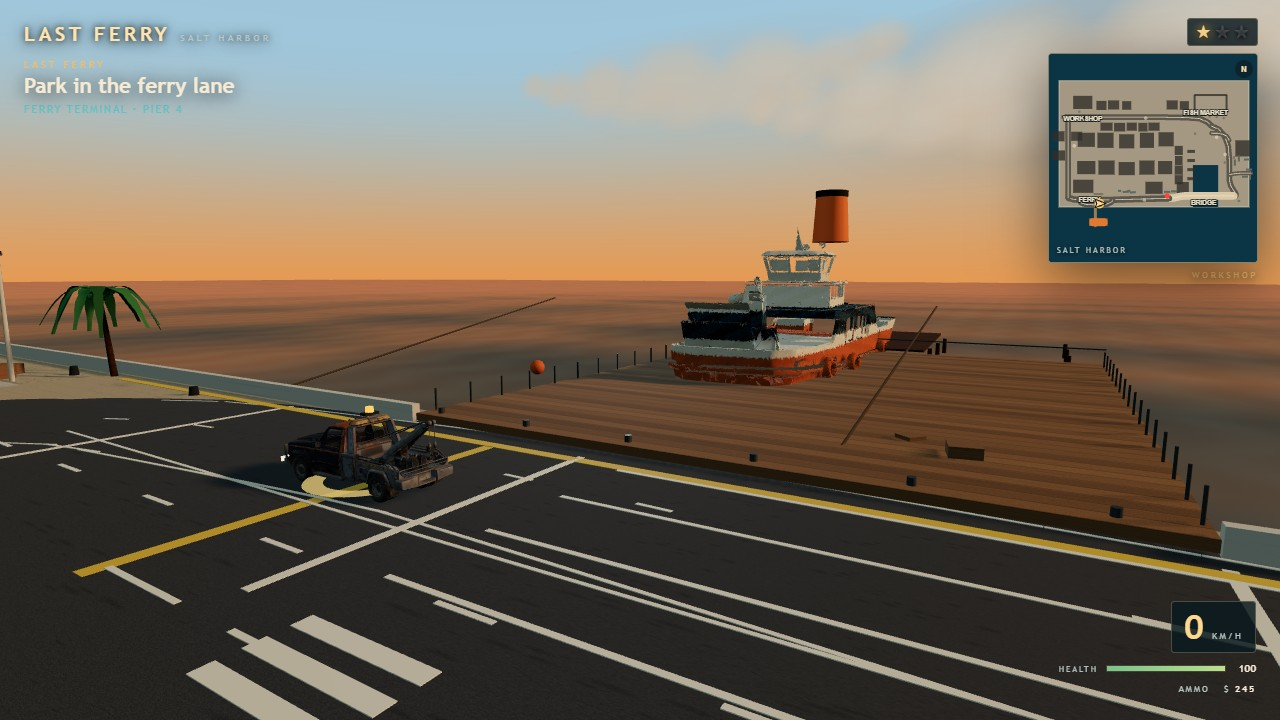
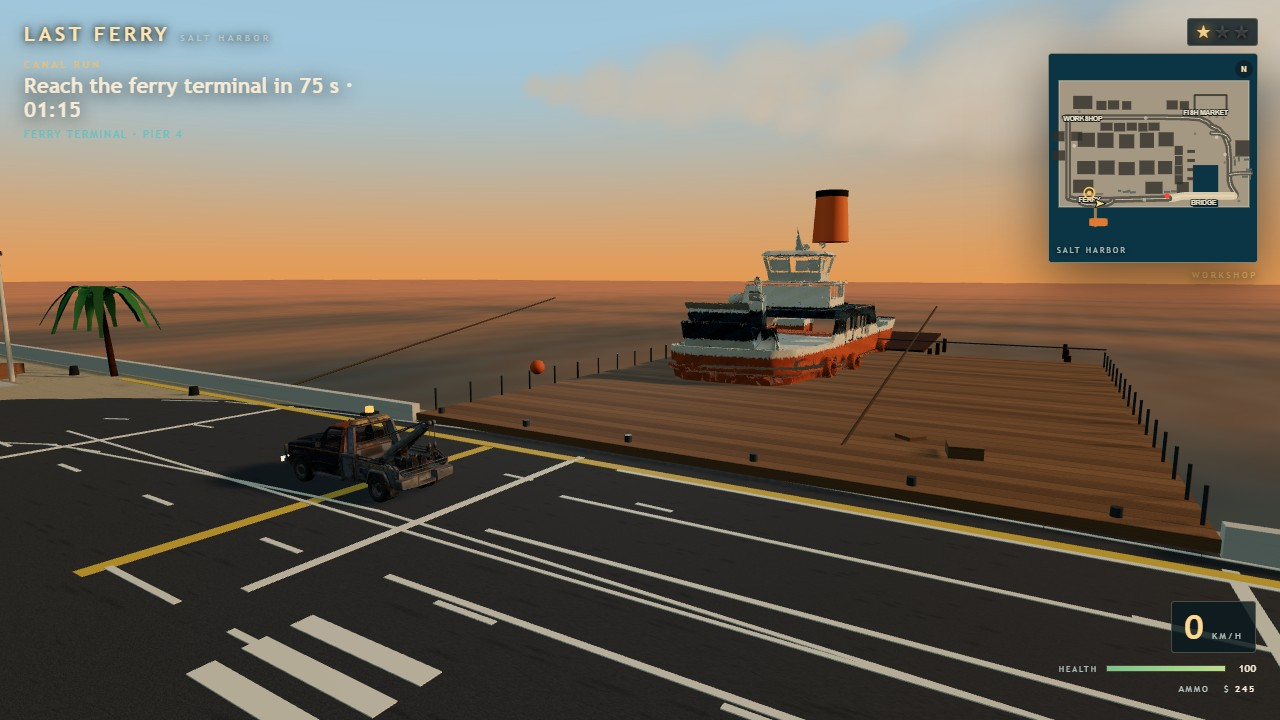
feat: add the Ferry Escape finale and refreshed stills
- ferry_escape forces wanted 2, counts down 90 s and re-applies the stars if they drop
- Pressing E at the pier boards the last ferry, clears the warrant and pays $600
- The SALT HARBOR end card hands over to free_roam; timeout or death retries at the pier
- Re-rendered all four 1280x720 stills; the terminal still shows the Canal Run countdown

diff --git a/game/src/missions.js b/game/src/missions.js
@@ -1,1 +1,1 @@
-import*as t from"../vendor/three.module.min.js";import{NODES as s,POI as i,distance2D as h,rngFor as e}from"./core.js";import{walkHeightAt as r}from"./world.js";import{Actor as o}from"./npc.js";const a=Math,{Vector3:n,RingGeometry:l,MeshBasicMaterial:c,Mesh:d,Group:u,DoubleSide:k}=t,p="find_truck",y="cross_bridge",m="ferry_lane",f="return_workshop",b="dock_trouble",_="debt_run",w="canal_run",C="free_roam",g={find_truck:["Take the impounded tow truck","Impound lot · Fish Market",s.slot_tow_truck_A.x,s.slot_tow_truck_A.z],cross_bridge:["Cross the bridge checkpoint","Canal Bend → Bridge",s.checkpoint_bridge_01.x,s.checkpoint_bridge_01.z],ferry_lane:["Park in the ferry lane","Ferry Terminal · Pier 4",s.lane_ferry_dest.x,s.lane_ferry_dest.z],return_workshop:["Return Tirta to the workshop","West Junction → Shop Street",i.workshop.x,i.workshop.z],debt_run:["Collect the market debt","Market · Alley · Pier",i.market.x,i.market.z],canal_run:["Reach the ferry terminal in 75 s","Ferry Terminal · Pier 4",i.terminal.x,i.terminal.z],ferry_escape:["Board the last ferry","Pier · last departure",i.pier.x,i.pier.z],free_roam:["Free roam Salt Harbor","East quay · dock trouble reported",168,30],dock_trouble:["Clear the east quay","East Quay · gangsters",168,30]},D=[i.market,i.alley,i.pier],T=t=>{const s=a.max(0,a.ceil(t));return`${String(a.floor(s/60)).padStart(2,"0")}:${String(s%60).padStart(2,"0")}`};export class MissionDirector{constructor(t){this.i=t.scene,this.p=t.player,this.f=t.fleet,this.l=t.police,this.n=t.npc,this.h=t.hud,this.u=t.audio,this.c=t.combat,this.m=120,this.st=p,this.k=[],this.t=0,this.sT=0,this.completed=!1,this._=!1,this.d=0,this.C=D[0],this.D=function(t){const s=new u;s.name="mission_marker";const i=new d(new l(1.3,1.9,32),new c({color:16761436,transparent:!0,opacity:.8,side:k,depthWrite:!1}));return i.rotation.x=-a.PI/2,i.position.y=.22,s.add(i),s.visible=!1,t.add(s),s}(this.i),this.o=null,this.setObjective(...g.find_truck),this.h.setMission("Last Ferry","The impound lot is behind the Fish Market."),this.T={nodes:s,stage:this.st,objective:this.o,events:this.k,startTruckRun:()=>this.replay(),onTruckTakeover:t=>this.k.push({type:"listener",handler:t})},window.LastFerryMission=this.T,window.LastFerryNodes=s,this.c.A=()=>{this.st===_&&this.checkpointRetry()}}setObjective(t,s,i,h){this.o={text:t,area:s,x:i,z:h},this.D.position.set(i,r(i,h,4),h),this.D.visible=!0,this.h.setObjective(t,s)}onEnterVehicle(t){"tow"===t.key&&this.st===p&&this.R()}R(){if(this.st!==p)return;const t={type:"truck_takeover",vehicle:"tow",label:"Tirta",node:"slot_tow_truck_A",time:this.t,area:"Parking Lot"};this.k.push(t);for(const s of this.k)"listener"===s.type&&s.handler?.(t);window.dispatchEvent(new CustomEvent("lastferry:truck-takeover",{detail:t})),this.st=y,this.sT=0,this.n.daraRadioCall(),this.l.setWanted(1,!0),this.u?.radioChatter(),this.h.setDialogue("DARA","Bagas! That truck is impounded. Stop the truck. I am calling it in.",5.2),this.h.showToast("Wanted level 1 · Patrol Unit 7 dispatched"),this.h.setMission("Last Ferry","Dara has called the harbour patrol."),this.setObjective(...g.cross_bridge),this.h.setWanted(1),this.S("truck_takeover")}v(){this.st===y&&(this.st=m,this.sT=0,this.u?.radioChatter(),this.h.setDialogue("DISPATCH","Unit 7, he is over the bridge. Cut him off on Waterfront Road.",4.5),this.setObjective(...g.ferry_lane))}P(){this.st===m&&(this.st=f,this.sT=0,this.h.setDialogue("IDRIS","Tirta, you are in the lane. The last ferry is held at Pier 4. Park her and see me.",5.2),this.setObjective(...g.return_workshop))}$(){this.st===f&&(this.st=C,this.completed=!0,this.m+=850,this.l.setWanted(0,!1),this.h.setWanted(0),this.h.setMoney(this.m),this.c&&(this.c.available=!0),this.u?.success(),this.h.showMissionComplete({title:"LAST FERRY",detail:`Tirta is home. Dara keeps the report quiet. Cash: $${this.m}.`,money:this.m,reward:850}),this.h.setMission("Last Ferry","The run is done. Salt Harbor is yours."),this.setObjective(...g.free_roam),this.S("mission_complete"))}F(){this.st=_,this.d=0,this.C=D[0],this.h.setMission("Debt Collector","Debt"),this.h.setDialogue("DARA","Market, alley, pier.",4.5),this.u?.radioChatter(),this.setObjective("Collect the market debt 0/3","Market · Alley · Pier",i.market.x,i.market.z)}interact(){return this.st===_&&this.d<3&&h(this.p.x,this.p.z,this.C.x,this.C.z)<3&&(this.M(),!0)}M(){this.d++,this.m+=150,this.h.setMoney(this.m),this.u?.ui(),this.h.showToast("Debt · +$150"),this.h.setDialogue("TRADER","Paid.",3.2),this.d<3?(this.C=D[this.d],this.setObjective(`Collect the market debt ${this.d}/3`,"Market · Alley · Pier",this.C.x,this.C.z)):(this.setObjective("Clear the pier 3/3","Pier",i.pier.x,i.pier.z),this.c.B(i.pier.x,i.pier.z),this.h.setMission("Debt Collector","Armed crew."),this.h.setDialogue("DISPATCH","Clear them.",4))}I(){this.L(w,75,"Canal Run","75 s.")}q(){this.L("ferry_escape",90,"Ferry Escape","Board the last ferry!"),this.l.setWanted(2,!0),this.h.setWanted(2)}L(t,s,i,h){this.st=t,this.sT=s,this.setObjective(...g[t]),this.h.setMission(i,""),this.h.setDialogue("DARA",h,4.8),this.u?.radioChatter()}finish(t,s,i,h){this.m+=t,this.h.setMoney(this.m),this.h.showMissionComplete({title:s,detail:`${i} Cash: $${this.m}.`,money:this.m,reward:t}),h()}update(t,e){this.t+=t;const r=this.st===w;this.sT=r?a.max(0,this.sT-t):this.sT+t,this.D.children[0].rotation.z+=.7*t;const o="tow"===this.f.driven?.key;r&&(this.h.objective.textContent=`${this.o.text} · ${T(this.sT)}`),this.st===p?o&&this.R():this.st===y?o&&this.p.y>1.4&&h(this.p.x,this.p.z,s.checkpoint_bridge_01.x,s.checkpoint_bridge_01.z)<11&&this.v():this.st===m?o&&this.p.z>95.5&&h(this.p.x,this.p.z,s.lane_ferry_dest.x,s.lane_ferry_dest.z)<8.5&&this.P():this.st===f?o&&h(this.p.x,this.p.z,i.workshop.x,i.workshop.z)<16&&this.$():this.st===C?this.c&&!this.c.active&&this.c.available&&h(this.p.x,this.p.z,168,30)<22&&(this.st=b,this._=!1,this.c.start(),this.h.setMission("Dock Trouble","Three dock thugs are moving cargo at the east quay."),this.setObjective(...g.dock_trouble)):this.st===b?this.c?.cleared&&!this._&&(this._=!0,this.st=_,this.m+=500,this.h.setMoney(this.m),this.h.showToast("East quay cleared · +$500"),this.h.showMissionComplete({title:"DOCK TROUBLE",detail:`Quay cleared. Cash: $${this.m}.`,money:this.m,reward:500}),this.F(),this.S("dock_complete")):this.st===_?this.d>=3&&this.c?.cleared&&(this.l.setWanted(0,!1),this.h.setWanted(0),this.h.showToast("Debt settled"),this.finish(400,"DEBT COLLECTOR","Debt done.",()=>this.I()),this.S("debt_complete")):this.st===w&&(this.f.driven&&this.sT>0&&h(this.p.x,this.p.z,i.terminal.x,i.terminal.z)<4?(this.h.showToast("Terminal reached"),this.finish(300,"CANAL RUN","Made it.",()=>this.q()),this.S("canal_complete")):this.sT<=0&&(this.sT=75,this.checkpointRetry())),e?.consume("KeyM")&&this.st===C&&this.replay(),this.T.stage=this.st,this.T.objective=this.o}restore(t){this.m=t.money??this.m,this.h.setMoney(this.m),this.st=t.stage??p,this.sT=t.stageTime??0,this.d=t.debt??0,this.C=D[Math.min(2,this.d)],this.setObjective(...g[this.st]??g.find_truck),"debt_run"===this.st&&this.d>0&&this.d<3&&this.setObjective(`Collect the market debt ${this.d}/3`,"Market · Alley · Pier",this.C.x,this.C.z);const s=!!t.combatCleared,h="dock_trouble"===this.st?"Dock Trouble":"free_roam"===this.st?"Salt Harbor":"debt_run"===this.st?"Debt Collector":"canal_run"===this.st?"Canal Run":"ferry_escape"===this.st?"Ferry Escape":"Last Ferry";this.completed="free_roam"===this.st||"dock_trouble"===this.st,this._="free_roam"===this.st&&s,this.h.setMission(h,"Saved run restored."),this.c&&(this.c.cleared=s,this.c.available="free_roam"===this.st&&!s,"dock_trouble"===this.st&&(s?this.c.active=!1:this.c.start()),"debt_run"===this.st&&this.d>=3&&!s&&(this.c.available=!0,this.c.B(i.pier.x,i.pier.z))),"ferry_escape"===this.st&&this.l.wanted<2&&(this.l.setWanted(2,!0),this.h.setWanted(2)),"canal_run"!==this.st&&"ferry_escape"!==this.st||(this.h.objective.textContent=`${this.o.text} · ${T(this.sT)}`)}checkpointRetry(){this.f.driven&&this.f.exit(this.p),this.p.health=100,this.p.setEquipped(!1),this.h.setHealth(100),this.h.setAmmo(this.p.ammo,this.p.reserve,!1),this.h.setCrosshair(!1),this.h.setWanted(0),this.l.reset();const t=!!this.c?.cleared;this.c?.reset(),this._=!1,this.st===C&&this.c&&(this.c.cleared=t,this.c.available=!t);const h=(t,s,i,h=0)=>{const e=this.f.towTruck;e.x=t,e.z=s,e.yaw=i,e.y=r(t,s,h,!0),e.speed=0,e.heightVel=0,e.collisionHold=0,e.applyTransform(),this.f.enter(e,this.p)};this.st===y?(h(s.junction_patrol_entry.x,s.junction_patrol_entry.z,s.junction_patrol_entry.yaw),this.l.setWanted(1,!0),this.h.setWanted(1)):this.st===m?(h(s.checkpoint_bridge_01.x,s.checkpoint_bridge_01.z,s.checkpoint_bridge_01.yaw,4),this.l.setWanted(1,!0),this.h.setWanted(1)):this.st===f?(h(s.lane_ferry_dest.x,s.lane_ferry_dest.z,s.lane_ferry_dest.yaw),this.l.setWanted(1,!0),this.h.setWanted(1)):this.st===b?(this.p.teleport(154,38,2.27),this.c.available=!0,this.c.start()):this.st===_?(this.p.teleport(this.C.x,this.C.z-1.5,0),this.d>=3?(this.c.available=!0,this.c.B(i.pier.x,i.pier.z),this.setObjective("Clear the pier 3/3","Pier · debt enforcers",i.pier.x,i.pier.z)):this.setObjective(`Collect the market debt ${this.d}/3`,"Market · Alley · Pier",this.C.x,this.C.z)):this.st===w?(this.sT=75,h(i.pier.x,i.pier.z,0),this.setObjective(...g.canal_run)):this.p.teleport(s.spawn_player_01.x,s.spawn_player_01.z,s.spawn_player_01.yaw),this.h.showToast("Checkpoint retry")}replay(){this.st=p,this.completed=!1,this._=!1,this.l.reset(),this.h.setWanted(0);const t=this.f.towTruck;t.x=s.slot_tow_truck_A.x,t.z=s.slot_tow_truck_A.z,t.yaw=s.slot_tow_truck_A.yaw,t.y=.16,t.speed=0,t.heightVel=0,t.applyTransform(),this.f.driven&&this.f.exit(this.p),this.p.teleport(s.spawn_player_01.x,s.spawn_player_01.z,s.spawn_player_01.yaw),this.setObjective(...g.find_truck),this.h.setMission("Last Ferry","The impound lot is behind the Fish Market."),this.h.setDialogue("BAGAS","One more run before the last ferry.",3.4),this.c?.reset()}S(t){try{const s="lastFerry.events.v1",i=JSON.parse(localStorage.getItem(s)??"[]");i.push({type:t,at:(new Date).toISOString()}),localStorage.setItem(s,JSON.stringify(i.slice(-20)))}catch{}}}const A=[[160,30,2.2],[166,24,2.4],[173,33,2]];export class CombatDirector{constructor(t){this.i=t.scene,this.assets=t.assets,this.p=t.player,this.l=t.police,this.h=t.hud,this.u=t.audio,this.fx=t.fx,this.O=e("dock-combat"),this.active=!1,this.cleared=!1,this.available=!1,this.thugs=A.map(([t,s,i],h)=>{const e=new o(this.i,this.assets,"gangster",{name:`npc_dock_thug_${h}`,x:t,z:s,yaw:i,clip:"Idle",label:"Dock Thug"});return e.root.visible=!1,e.attachRifle(this.assets),{actor:e,health:100,alive:!0,j:1+.4*h,H:{x:t,z:s,yaw:i}}})}start(){this.active=!0,this.cleared=!1,this.available=!1;for(const t of this.thugs)t.health=100,t.alive=!0,t.j=.8+.8*this.O(),t.actor.root.visible=!0,t.actor.alive=!0,t.actor.x=t.H.x,t.actor.z=t.H.z,t.actor.y=.16,t.actor.root.position.set(t.H.x,.16,t.H.z),t.actor.root.rotation.y=t.H.yaw,t.actor.play("Idle",{fade:.1});this.h.setDialogue("DISPATCH","Bagas, three thugs are moving cargo at the east quay. Clear them out.",5),this.h.setMission("Dock Trouble","Armed thugs at the east quay. Press R for the rifle."),this.h.showToast("Dock Trouble · press R to equip the rifle")}B(t,s){this.thugs.forEach((i,h)=>{i.H.x=t+4*(h-1),i.H.z=s+(h%2?3:-3)}),this.start()}reset(){this.active=!1,this.cleared=!1,this.available=!1;for(const t of this.thugs)t.alive=!1,t.actor.root.visible=!1,t.actor.alive=!0,t.actor.play("Idle",{fade:.1})}update(t){if(!this.active)return;let s=0;for(const i of this.thugs){if(!i.alive){i.actor.update(t,this.p);continue}s++;const e=i.actor,r=h(e.x,e.z,this.p.x,this.p.z);e.faceTo(this.p.x,this.p.z,t,4),e.update(t,this.p),r<42&&(i.j-=t,i.j<=0&&this.p.health>0&&(i.j=1.25+.9*this.O(),this.W(i,r))),r<4.2&&this.p.health>0&&(this.p.health-=.9*t,this.h.setHealth(this.p.health),this.p.health<=0&&this.G())}0!==s||this.cleared||(this.cleared=!0,this.active=!1,this.available=!1,this.h.showToast("East quay cleared"),this.u?.success())}W(t,s){const i=t.actor;i.play("Firing_Rifle",{once:!0,fade:.05});const h=new n(i.x,i.y+1.2,i.z),e=new n(this.p.x,this.p.y+1.2,this.p.z);this.fx?.flash(h),this.fx?.tracer(h,e),this.u?.gunshot(.35,a.max(0,1-s/70)),this.O()<a.min(.62,.18+s/90)&&(this.p.health=a.max(0,this.p.health-7),this.h.setHealth(this.p.health),this.h.damageFlash(),this.p.health<=0&&this.G())}playerShot(t,s,i){let h=null;for(const i of this.thugs)if(i.alive)for(const[e,r,o]of[[1.62,.36,100],[1.12,.52,38],[.62,.5,22]]){const a=new n(i.actor.x,i.actor.y+e,i.actor.z),l=a.clone().sub(t).dot(s);if(l<0||l>90)continue;const c=t.clone().addScaledVector(s,l);c.distanceTo(a)>r||(!h||l<h.t)&&(h={t:l,thug:i,damage:o,point:c})}return h?(h.thug.health-=h.damage,this.fx?.impact(h.point,null,11746094),h.thug.health<=0&&h.thug.alive&&(h.thug.alive=!1,h.thug.actor.die(),this.u?.thugDown())):this.fx?.impact(t.clone().addScaledVector(s,90),null,13287588),i&&this.fx?.tracer(i,h?h.point:t.clone().addScaledVector(s,60)),h}G(){this.p.health=100,this.h.setHealth(100),this.h.setDialogue("BAGAS","I need to patch up. Back to the workshop.",3.4),this.p.teleport(s.spawn_player_01.x,s.spawn_player_01.z,s.spawn_player_01.yaw),this.l?.reset(),this.h.setWanted(0);for(const t of this.thugs)t.alive=!0,t.health=100,t.actor.alive=!0,t.actor.root.visible=!0,t.actor.play("Idle",{fade:.1});this.active=!0,this.cleared=!1,this.h.showToast("Back at the workshop · the quay is still hostile"),this.A?.()}}
+import*as t from"../vendor/three.module.min.js";import{NODES as s,POI as i,distance2D as h,rngFor as e}from"./core.js";import{walkHeightAt as r}from"./world.js";import{Actor as o}from"./npc.js";const a=Math,{Vector3:n,RingGeometry:l,MeshBasicMaterial:c,Mesh:d,Group:u,DoubleSide:f}=t,p="find_truck",k="cross_bridge",m="ferry_lane",y="return_workshop",b="dock_trouble",_="debt_run",w="canal_run",C="ferry_escape",g="free_roam",T={find_truck:["Take the impounded tow truck","Impound lot · Fish Market",s.slot_tow_truck_A.x,s.slot_tow_truck_A.z],cross_bridge:["Cross the bridge checkpoint","Canal Bend → Bridge",s.checkpoint_bridge_01.x,s.checkpoint_bridge_01.z],ferry_lane:["Park in the ferry lane","Ferry Terminal · Pier 4",s.lane_ferry_dest.x,s.lane_ferry_dest.z],return_workshop:["Return Tirta to the workshop","West Junction → Shop Street",i.workshop.x,i.workshop.z],debt_run:["Collect the market debt","Market · Alley · Pier",i.market.x,i.market.z],canal_run:["Reach the ferry terminal in 75 s","Ferry Terminal · Pier 4",i.terminal.x,i.terminal.z],ferry_escape:["Board the last ferry","Pier · last departure",i.pier.x,i.pier.z],free_roam:["Free roam Salt Harbor","East quay · dock trouble reported",168,30],dock_trouble:["Clear the east quay","East Quay · gangsters",168,30]},D=[i.market,i.alley,i.pier],A=t=>{const s=a.max(0,a.ceil(t));return`${String(a.floor(s/60)).padStart(2,"0")}:${String(s%60).padStart(2,"0")}`};export class MissionDirector{constructor(t){this.i=t.scene,this.p=t.player,this.f=t.fleet,this.l=t.police,this.n=t.npc,this.h=t.hud,this.u=t.audio,this.c=t.combat,this.m=120,this.st=p,this.k=[],this.t=0,this.sT=0,this.completed=!1,this._=!1,this.d=0,this.C=D[0],this.T=function(t){const s=new u;s.name="mission_marker";const i=new d(new l(1.3,1.9,32),new c({color:16761436,transparent:!0,opacity:.8,side:f,depthWrite:!1}));return i.rotation.x=-a.PI/2,i.position.y=.22,s.add(i),s.visible=!1,t.add(s),s}(this.i),this.o=null,this.setObjective(...T.find_truck),this.h.setMission("Last Ferry","The impound lot is behind the Fish Market."),this.D={nodes:s,stage:this.st,objective:this.o,events:this.k,startTruckRun:()=>this.replay(),onTruckTakeover:t=>this.k.push({type:"listener",handler:t})},window.LastFerryMission=this.D,window.LastFerryNodes=s,this.c.A=()=>{this.st===_&&this.checkpointRetry()}}setObjective(t,s,i,h){this.o={text:t,area:s,x:i,z:h},this.T.position.set(i,r(i,h,4),h),this.T.visible=!0,this.h.setObjective(t,s)}onEnterVehicle(t){"tow"===t.key&&this.st===p&&this.R()}R(){if(this.st!==p)return;const t={type:"truck_takeover",vehicle:"tow",label:"Tirta",node:"slot_tow_truck_A",time:this.t,area:"Parking Lot"};this.k.push(t);for(const s of this.k)"listener"===s.type&&s.handler?.(t);window.dispatchEvent(new CustomEvent("lastferry:truck-takeover",{detail:t})),this.st=k,this.sT=0,this.n.daraRadioCall(),this.l.setWanted(1,!0),this.u?.radioChatter(),this.h.setDialogue("DARA","Bagas! That truck is impounded. Stop the truck. I am calling it in.",5.2),this.h.showToast("Wanted level 1 · Patrol Unit 7 dispatched"),this.h.setMission("Last Ferry","Dara has called the harbour patrol."),this.setObjective(...T.cross_bridge),this.h.setWanted(1),this.S("truck_takeover")}v(){this.st===k&&(this.st=m,this.sT=0,this.u?.radioChatter(),this.h.setDialogue("DISPATCH","Unit 7, he is over the bridge. Cut him off on Waterfront Road.",4.5),this.setObjective(...T.ferry_lane))}P(){this.st===m&&(this.st=y,this.sT=0,this.h.setDialogue("IDRIS","Tirta, you are in the lane. The last ferry is held at Pier 4. Park her and see me.",5.2),this.setObjective(...T.return_workshop))}F(){this.st===y&&(this.st=g,this.completed=!0,this.m+=850,this.l.setWanted(0,!1),this.h.setWanted(0),this.h.setMoney(this.m),this.c&&(this.c.available=!0),this.u?.success(),this.h.showMissionComplete({title:"LAST FERRY",detail:`Tirta is home. Dara keeps the report quiet. Cash: $${this.m}.`,money:this.m,reward:850}),this.h.setMission("Last Ferry","The run is done. Salt Harbor is yours."),this.setObjective(...T.free_roam),this.S("mission_complete"))}$(){this.st=_,this.d=0,this.C=D[0],this.h.setMission("Debt Collector","Debt"),this.h.setDialogue("DARA","Market, alley, pier.",4.5),this.u?.radioChatter(),this.setObjective("Collect the market debt 0/3","Market · Alley · Pier",i.market.x,i.market.z)}interact(){return this.st===_&&this.d<3&&h(this.p.x,this.p.z,this.C.x,this.C.z)<3?(this.M(),!0):this.st===C&&h(this.p.x,this.p.z,i.pier.x,i.pier.z)<4&&(this.B(),!0)}M(){this.d++,this.m+=150,this.h.setMoney(this.m),this.u?.ui(),this.h.showToast("Debt · +$150"),this.h.setDialogue("TRADER","Paid.",3.2),this.d<3?(this.C=D[this.d],this.setObjective(`Collect the market debt ${this.d}/3`,"Market · Alley · Pier",this.C.x,this.C.z)):(this.setObjective("Clear the pier 3/3","Pier",i.pier.x,i.pier.z),this.c.L(i.pier.x,i.pier.z),this.h.setMission("Debt Collector","Armed crew."),this.h.setDialogue("DISPATCH","Clear them.",4))}I(){this.q(w,75,"Canal Run","75 s.")}O(){this.q(C,90,"Ferry Escape","Board the last ferry!"),this.l.setWanted(2,!0),this.h.setWanted(2)}q(t,s,i,h){this.st=t,this.sT=s,this.setObjective(...T[t]),this.h.setMission(i,""),this.h.setDialogue("DARA",h,4.8),this.u?.radioChatter()}finish(t,s,i,h){this.m+=t,this.h.setMoney(this.m),this.h.showMissionComplete({title:s,detail:`${i} Cash: $${this.m}.`,money:this.m,reward:t}),h()}B(){this.st=g,this.completed=!0,this.l.setWanted(0,!1),this.h.setWanted(0),this.u?.success(),this.h.setMission("Salt Harbor","Leaves."),this.setObjective(...T.free_roam),this.S("mission_complete"),this.finish(600,"SALT HARBOR","Aboard",()=>{})}update(t,e){this.t+=t;const r=this.st===w||this.st===C;this.sT=r?a.max(0,this.sT-t):this.sT+t,this.T.children[0].rotation.z+=.7*t;const o="tow"===this.f.driven?.key;r&&(this.h.objective.textContent=`${this.o.text} · ${A(this.sT)}`),this.st===p?o&&this.R():this.st===k?o&&this.p.y>1.4&&h(this.p.x,this.p.z,s.checkpoint_bridge_01.x,s.checkpoint_bridge_01.z)<11&&this.v():this.st===m?o&&this.p.z>95.5&&h(this.p.x,this.p.z,s.lane_ferry_dest.x,s.lane_ferry_dest.z)<8.5&&this.P():this.st===y?o&&h(this.p.x,this.p.z,i.workshop.x,i.workshop.z)<16&&this.F():this.st===g?this.c&&!this.c.active&&this.c.available&&h(this.p.x,this.p.z,168,30)<22&&(this.st=b,this._=!1,this.c.start(),this.h.setMission("Dock Trouble","Three dock thugs are moving cargo at the east quay."),this.setObjective(...T.dock_trouble)):this.st===b?this.c?.cleared&&!this._&&(this._=!0,this.st=_,this.m+=500,this.h.setMoney(this.m),this.h.showToast("East quay cleared · +$500"),this.h.showMissionComplete({title:"DOCK TROUBLE",detail:`Quay cleared. Cash: $${this.m}.`,money:this.m,reward:500}),this.$(),this.S("dock_complete")):this.st===_?this.d>=3&&this.c?.cleared&&(this.l.setWanted(0,!1),this.h.setWanted(0),this.h.showToast("Debt settled"),this.finish(400,"DEBT COLLECTOR","Debt done.",()=>this.I()),this.S("debt_complete")):this.st===w?this.f.driven&&this.sT>0&&h(this.p.x,this.p.z,i.terminal.x,i.terminal.z)<4?(this.h.showToast("Terminal reached"),this.finish(300,"CANAL RUN","Made it.",()=>this.O()),this.S("canal_complete")):this.sT<=0&&(this.sT=75,this.checkpointRetry()):this.st===C&&(this.l.wanted<2&&(this.l.setWanted(2,!0),this.h.setWanted(2)),this.sT<=0&&(this.sT=90,this.checkpointRetry())),e?.consume("KeyM")&&this.st===g&&this.replay(),this.D.stage=this.st,this.D.objective=this.o}restore(t){this.m=t.money??this.m,this.h.setMoney(this.m),this.st=t.stage??p,this.sT=t.stageTime??0,this.d=t.debt??0,this.C=D[Math.min(2,this.d)],this.setObjective(...T[this.st]??T.find_truck),"debt_run"===this.st&&this.d>0&&this.d<3&&this.setObjective(`Collect the market debt ${this.d}/3`,"Market · Alley · Pier",this.C.x,this.C.z);const s=!!t.combatCleared,h="dock_trouble"===this.st?"Dock Trouble":"free_roam"===this.st?"Salt Harbor":"debt_run"===this.st?"Debt Collector":"canal_run"===this.st?"Canal Run":"ferry_escape"===this.st?"Ferry Escape":"Last Ferry";this.completed="free_roam"===this.st||"dock_trouble"===this.st,this._="free_roam"===this.st&&s,this.h.setMission(h,"Saved run restored."),this.c&&(this.c.cleared=s,this.c.available="free_roam"===this.st&&!s,"dock_trouble"===this.st&&(s?this.c.active=!1:this.c.start()),"debt_run"===this.st&&this.d>=3&&!s&&(this.c.available=!0,this.c.L(i.pier.x,i.pier.z))),"ferry_escape"===this.st&&this.l.wanted<2&&(this.l.setWanted(2,!0),this.h.setWanted(2)),"canal_run"!==this.st&&"ferry_escape"!==this.st||(this.h.objective.textContent=`${this.o.text} · ${A(this.sT)}`)}checkpointRetry(){this.f.driven&&this.f.exit(this.p),this.p.health=100,this.p.setEquipped(!1),this.h.setHealth(100),this.h.setAmmo(this.p.ammo,this.p.reserve,!1),this.h.setCrosshair(!1),this.h.setWanted(0),this.l.reset();const t=!!this.c?.cleared;this.c?.reset(),this._=!1,this.st===g&&this.c&&(this.c.cleared=t,this.c.available=!t);const h=(t,s,i,h=0)=>{const e=this.f.towTruck;e.x=t,e.z=s,e.yaw=i,e.y=r(t,s,h,!0),e.speed=0,e.heightVel=0,e.collisionHold=0,e.applyTransform(),this.f.enter(e,this.p)};if(this.st===k)h(s.junction_patrol_entry.x,s.junction_patrol_entry.z,s.junction_patrol_entry.yaw),this.l.setWanted(1,!0),this.h.setWanted(1);else if(this.st===m)h(s.checkpoint_bridge_01.x,s.checkpoint_bridge_01.z,s.checkpoint_bridge_01.yaw,4),this.l.setWanted(1,!0),this.h.setWanted(1);else if(this.st===y)h(s.lane_ferry_dest.x,s.lane_ferry_dest.z,s.lane_ferry_dest.yaw),this.l.setWanted(1,!0),this.h.setWanted(1);else if(this.st===b)this.p.teleport(154,38,2.27),this.c.available=!0,this.c.start();else if(this.st===_)this.p.teleport(this.C.x,this.C.z-1.5,0),this.d>=3?(this.c.available=!0,this.c.L(i.pier.x,i.pier.z),this.setObjective("Clear the pier 3/3","Pier · debt enforcers",i.pier.x,i.pier.z)):this.setObjective(`Collect the market debt ${this.d}/3`,"Market · Alley · Pier",this.C.x,this.C.z);else if(this.st===w||this.st===C){const t=this.st===C;this.sT=t?90:75,t?(this.p.teleport(i.pier.x,i.pier.z-3,0),this.l.setWanted(2,!0),this.h.setWanted(2)):h(i.pier.x,i.pier.z,0),this.setObjective(...T[this.st])}else this.p.teleport(s.spawn_player_01.x,s.spawn_player_01.z,s.spawn_player_01.yaw);this.h.showToast("Checkpoint retry")}replay(){this.st=p,this.completed=!1,this._=!1,this.l.reset(),this.h.setWanted(0);const t=this.f.towTruck;t.x=s.slot_tow_truck_A.x,t.z=s.slot_tow_truck_A.z,t.yaw=s.slot_tow_truck_A.yaw,t.y=.16,t.speed=0,t.heightVel=0,t.applyTransform(),this.f.driven&&this.f.exit(this.p),this.p.teleport(s.spawn_player_01.x,s.spawn_player_01.z,s.spawn_player_01.yaw),this.setObjective(...T.find_truck),this.h.setMission("Last Ferry","The impound lot is behind the Fish Market."),this.h.setDialogue("BAGAS","One more run before the last ferry.",3.4),this.c?.reset()}S(t){try{const s="lastFerry.events.v1",i=JSON.parse(localStorage.getItem(s)??"[]");i.push({type:t,at:(new Date).toISOString()}),localStorage.setItem(s,JSON.stringify(i.slice(-20)))}catch{}}}const R=[[160,30,2.2],[166,24,2.4],[173,33,2]];export class CombatDirector{constructor(t){this.i=t.scene,this.assets=t.assets,this.p=t.player,this.l=t.police,this.h=t.hud,this.u=t.audio,this.fx=t.fx,this.H=e("dock-combat"),this.active=!1,this.cleared=!1,this.available=!1,this.thugs=R.map(([t,s,i],h)=>{const e=new o(this.i,this.assets,"gangster",{name:`npc_dock_thug_${h}`,x:t,z:s,yaw:i,clip:"Idle",label:"Dock Thug"});return e.root.visible=!1,e.attachRifle(this.assets),{actor:e,health:100,alive:!0,j:1+.4*h,W:{x:t,z:s,yaw:i}}})}start(){this.active=!0,this.cleared=!1,this.available=!1;for(const t of this.thugs)t.health=100,t.alive=!0,t.j=.8+.8*this.H(),t.actor.root.visible=!0,t.actor.alive=!0,t.actor.x=t.W.x,t.actor.z=t.W.z,t.actor.y=.16,t.actor.root.position.set(t.W.x,.16,t.W.z),t.actor.root.rotation.y=t.W.yaw,t.actor.play("Idle",{fade:.1});this.h.setDialogue("DISPATCH","Bagas, three thugs are moving cargo at the east quay. Clear them out.",5),this.h.setMission("Dock Trouble","Armed thugs at the east quay. Press R for the rifle."),this.h.showToast("Dock Trouble · press R to equip the rifle")}L(t,s){this.thugs.forEach((i,h)=>{i.W.x=t+4*(h-1),i.W.z=s+(h%2?3:-3)}),this.start()}reset(){this.active=!1,this.cleared=!1,this.available=!1;for(const t of this.thugs)t.alive=!1,t.actor.root.visible=!1,t.actor.alive=!0,t.actor.play("Idle",{fade:.1})}update(t){if(!this.active)return;let s=0;for(const i of this.thugs){if(!i.alive){i.actor.update(t,this.p);continue}s++;const e=i.actor,r=h(e.x,e.z,this.p.x,this.p.z);e.faceTo(this.p.x,this.p.z,t,4),e.update(t,this.p),r<42&&(i.j-=t,i.j<=0&&this.p.health>0&&(i.j=1.25+.9*this.H(),this.G(i,r))),r<4.2&&this.p.health>0&&(this.p.health-=.9*t,this.h.setHealth(this.p.health),this.p.health<=0&&this.N())}0!==s||this.cleared||(this.cleared=!0,this.active=!1,this.available=!1,this.h.showToast("East quay cleared"),this.u?.success())}G(t,s){const i=t.actor;i.play("Firing_Rifle",{once:!0,fade:.05});const h=new n(i.x,i.y+1.2,i.z),e=new n(this.p.x,this.p.y+1.2,this.p.z);this.fx?.flash(h),this.fx?.tracer(h,e),this.u?.gunshot(.35,a.max(0,1-s/70)),this.H()<a.min(.62,.18+s/90)&&(this.p.health=a.max(0,this.p.health-7),this.h.setHealth(this.p.health),this.h.damageFlash(),this.p.health<=0&&this.N())}playerShot(t,s,i){let h=null;for(const i of this.thugs)if(i.alive)for(const[e,r,o]of[[1.62,.36,100],[1.12,.52,38],[.62,.5,22]]){const a=new n(i.actor.x,i.actor.y+e,i.actor.z),l=a.clone().sub(t).dot(s);if(l<0||l>90)continue;const c=t.clone().addScaledVector(s,l);c.distanceTo(a)>r||(!h||l<h.t)&&(h={t:l,thug:i,damage:o,point:c})}return h?(h.thug.health-=h.damage,this.fx?.impact(h.point,null,11746094),h.thug.health<=0&&h.thug.alive&&(h.thug.alive=!1,h.thug.actor.die(),this.u?.thugDown())):this.fx?.impact(t.clone().addScaledVector(s,90),null,13287588),i&&this.fx?.tracer(i,h?h.point:t.clone().addScaledVector(s,60)),h}N(){this.p.health=100,this.h.setHealth(100),this.h.setDialogue("BAGAS","I need to patch up. Back to the workshop.",3.4),this.p.teleport(s.spawn_player_01.x,s.spawn_player_01.z,s.spawn_player_01.yaw),this.l?.reset(),this.h.setWanted(0);for(const t of this.thugs)t.alive=!0,t.health=100,t.actor.alive=!0,t.actor.root.visible=!0,t.actor.play("Idle",{fade:.1});this.active=!0,this.cleared=!1,this.h.showToast("Back at the workshop · the quay is still hostile"),this.A?.()}}
